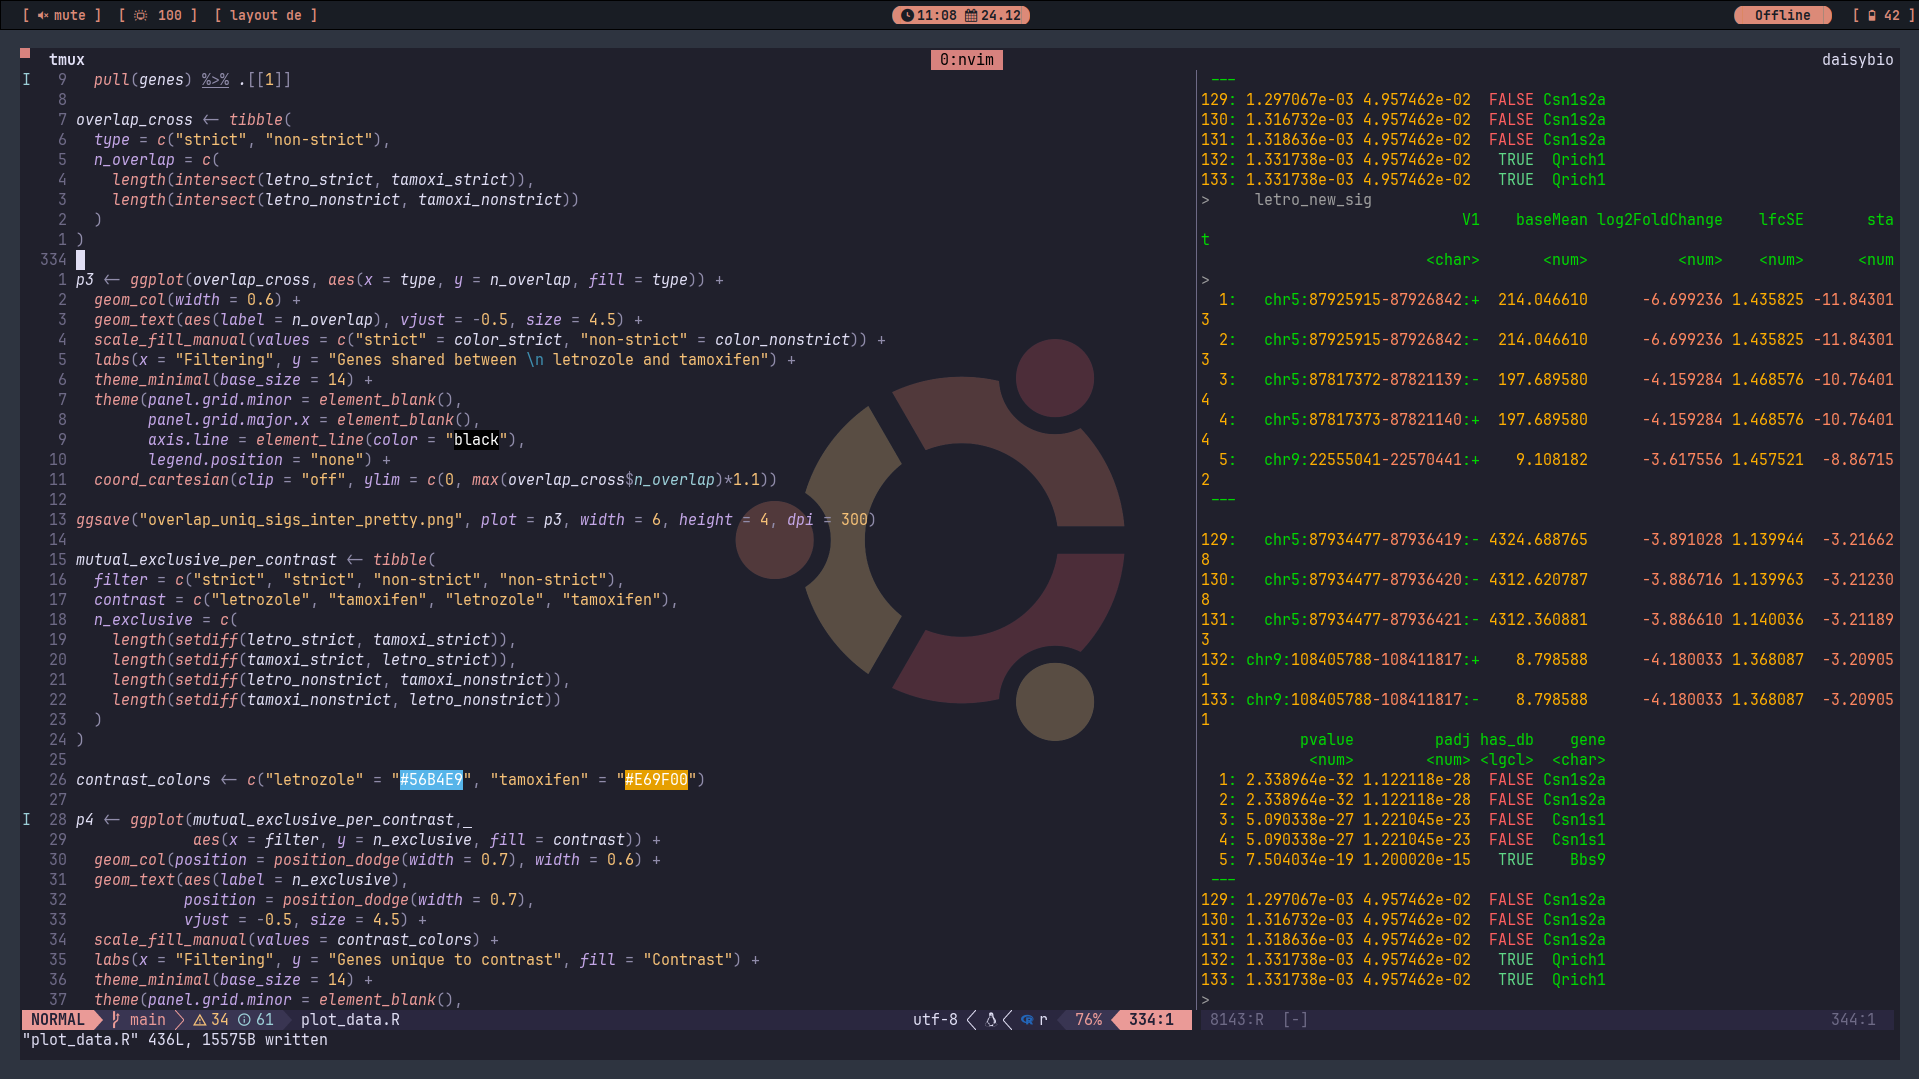
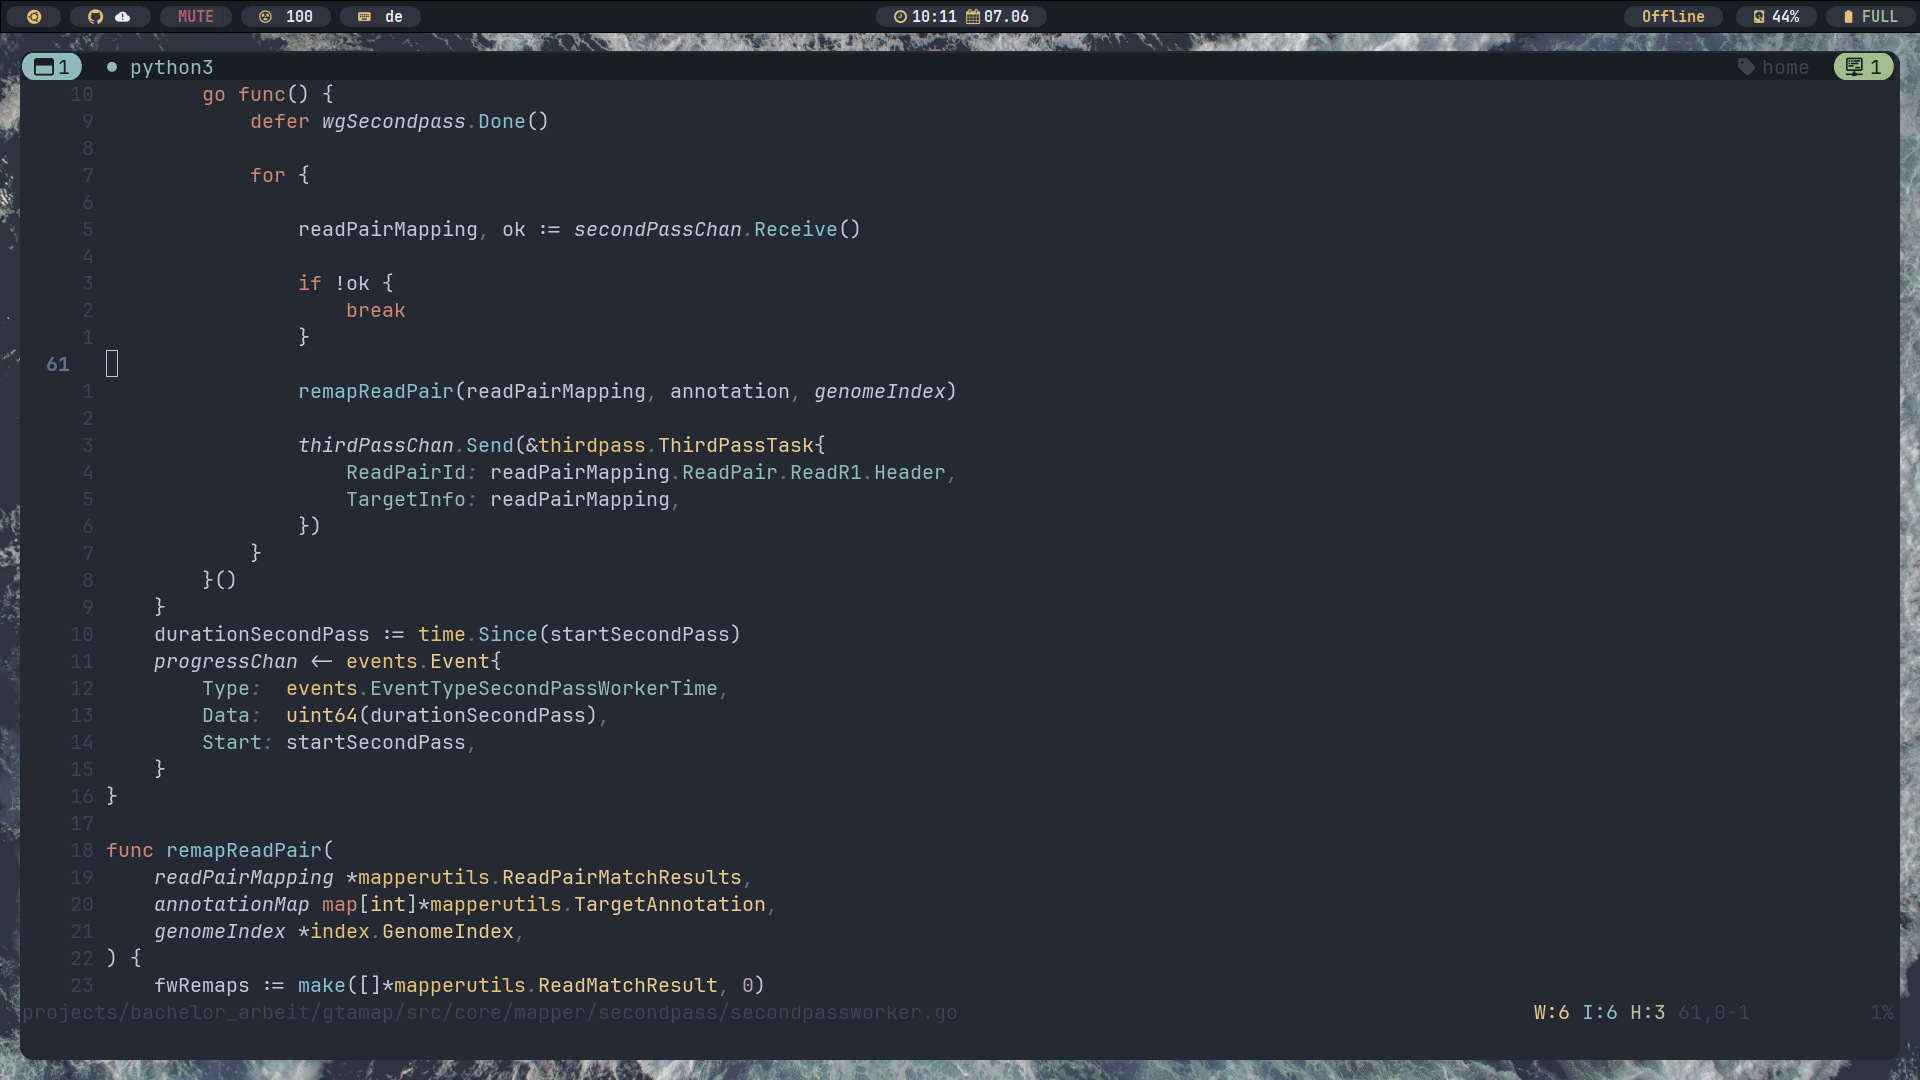
update

diff --git a/README.md b/README.md
@@ -5,5 +5,4 @@ I am a big fan of [vimwiki](https://github.com/vimwiki/vimwiki) and use it for a
 
 ## Images
 ![Notes](./images/notes.png)  
-![Notes 1](./images/vimwiki.png)  
 ![Code](./images/code.png)